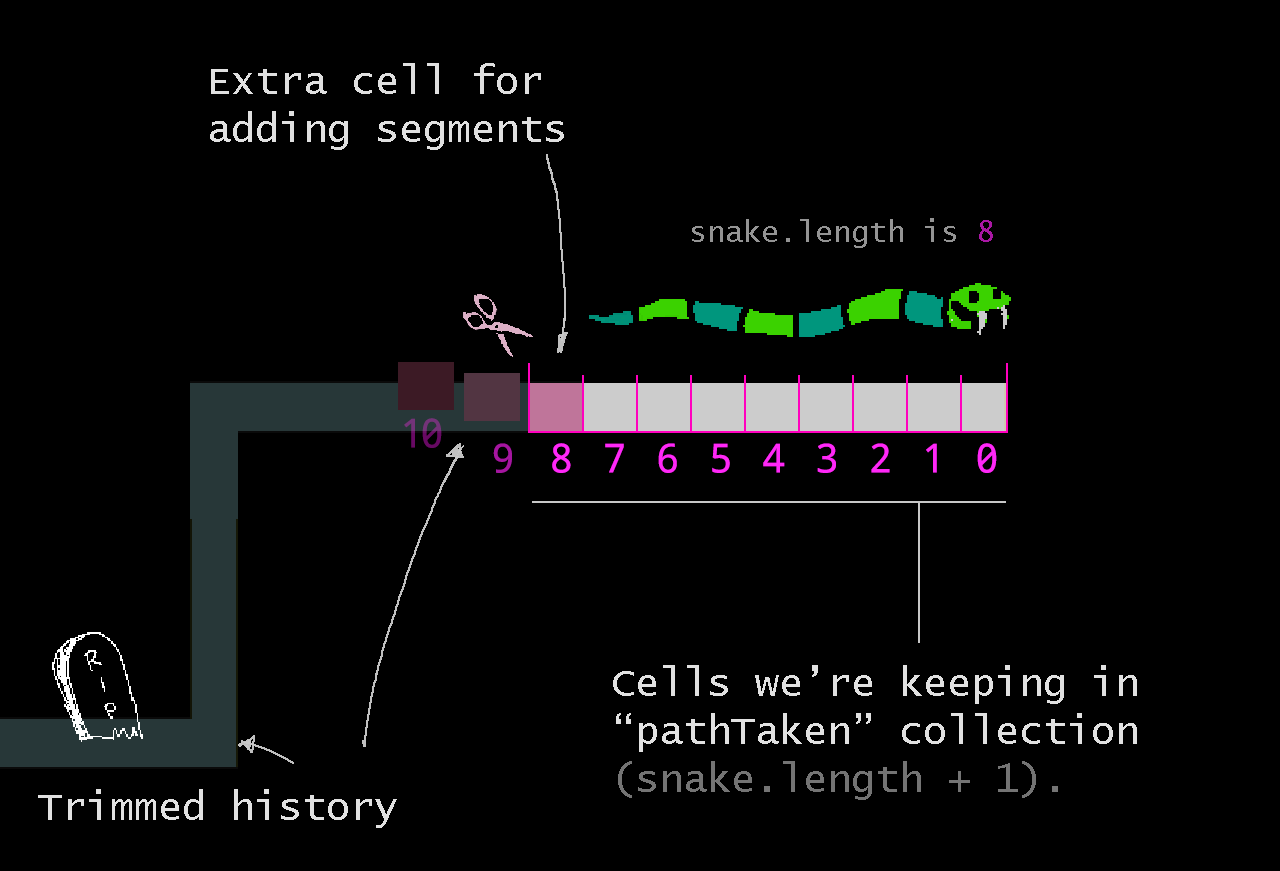
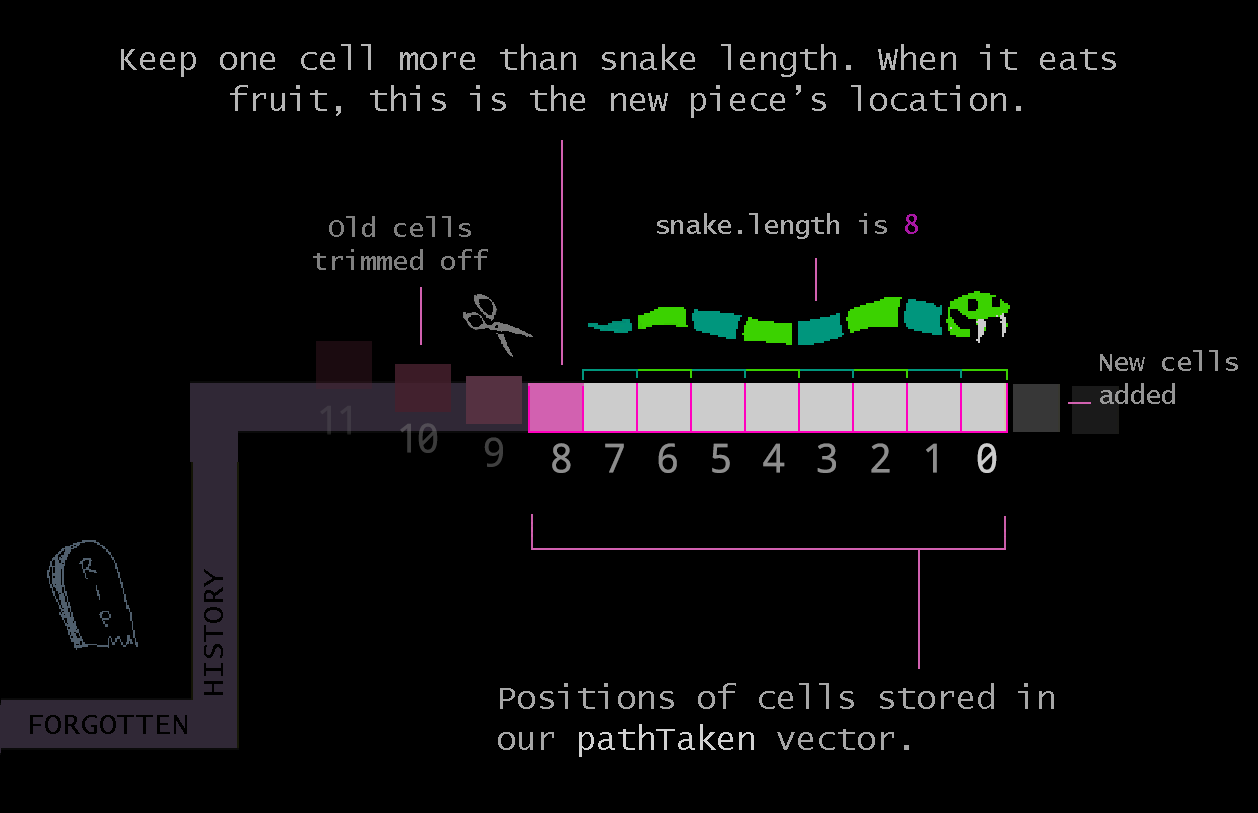
Moving multi part snake, adding a tail

diff --git a/mds/ISE102/week12_notes.html b/mds/ISE102/week12_notes.html
@@ -150,7 +150,7 @@
 
 <p>The snake is a conga line. As the leader dancers forwards, the next in line congas along after them to fill the gap.</p>
 <p><img src="assets/week12/conga_tf2.jpg" alt></p>
-<h3 class="mume-header" id="super-simple-draw-your-history">Super simple: Draw your history</h3>
+<h3 class="mume-header" id="super-simple-leave-a-trail">Super simple: Leave a trail</h3>
 
 <p><img src="assets/week12/light_floor_trail.jpg" alt></p>
 <ul>
@@ -158,51 +158,124 @@
 <p>Remember when we didn&#x2019;t clear the screen? We had one long noodle. Along the entire path taken by the snake head there were white pixels left behind.</p>
 </li>
 <li>
-<p>Just by not being erased, the screen is acting as a record of the path taken.<br>
+<p>Just by not being erased, the screen is a record of the path taken.<br>
 <img src="assets/week11/screen_mess_no_clear.png" alt></p>
 </li>
 <li>
-<p>If we could clear everything except the last few cells of path taken we&#x2019;d have a moving snake.<br>
-<img src="assets/week12/snake_as_recent_history.png" alt></p>
+<p>If we could just clear everything except the last few cells of path taken we&#x2019;d have a moving snake&#x2026;</p>
 </li>
 </ul>
-<h4 class="mume-header" id="clear-and-draw-recent-history">Clear and draw recent history</h4>
+<p><img src="assets/week12/snake_history_simple_no_clear.png" alt></p>
+<p>&#x2026;but figuring that out would be <em>complicated</em>. Let&#x2019;s do it another way.</p>
+<h3 class="mume-header" id="remembering-where-youve-been">Remembering where you&#x2019;ve been</h3>
 
-<p>We could get that same effect if we cleared the screen but had a record of our recent history: we could just draw those pixels again.</p>
+<p>We could get that same effect if we:<br>
+1: <strong>Cleared</strong> the screen<br>
+2: <strong>Remembered the path travelled</strong>, a list of cells visited. A log of the Snake&#x2019;s journey.<br>
+3: Looped through, say, the 8 most recent cells and drew a pixel.</p>
 <ul>
-<li>
-<p>We&#x2019;d need to store the cells we&#x2019;d travelled through using memory.</p>
-</li>
-<li>
-<p>How can you <strong>store a long list</strong> of values in memory using C++? A <strong>vector</strong>.</p>
-</li>
-<li>
-<p>Every time we move, add the cell&#x2019;s location to the vector. That&#x2019;s history.</p>
-<pre data-role="codeBlock" data-info="cpp" class="language-cpp"><span class="token comment">// Declare a collection to hold the cells along the path we&apos;ve travelled.</span>
-<span class="token comment">// = {} initialised it as an empty collection</span>
-vector<span class="token operator">&lt;</span>Cell<span class="token operator">&gt;</span> pathTravelled <span class="token operator">=</span> <span class="token punctuation">{</span><span class="token punctuation">}</span><span class="token punctuation">;</span> 
-
-<span class="token comment">// If we calculate the new head position into a Cell called &quot;cellTo&quot;, add it to the vector</span>
-pathTravelled<span class="token punctuation">.</span><span class="token function">push_back</span><span class="token punctuation">(</span>cellTo<span class="token punctuation">)</span><span class="token punctuation">;</span>
-</pre></li>
+<li>We&#x2019;d need to store the cells we&#x2019;d travelled through using memory.</li>
+<li>We&#x2019;d need to put new cells at the front</li>
+<li>We&#x2019;d need some to start with.</li>
+<li>We&#x2019;d need to delete excess history</li>
 </ul>
-<h4 class="mume-header" id="adding-to-the-beginning-of-a-vector">Adding to the beginning of a vector</h4>
+<p><img src="assets/week12/snake_as_path_travelled.png" alt></p>
+<h4 class="mume-header" id="doing-it-in-code">Doing it in code</h4>
 
 <ul>
-<li>We&#x2019;re dealing with recent history though. It&#x2019;d be nice to push stuff into the start of our vector, and later trim off any excess history.</li>
+<li>How can you <strong>store a long list</strong> of values in memory using C++? A <strong>vector</strong>.</li>
+</ul>
+<pre data-role="codeBlock" data-info="cpp" class="language-cpp">  snake<span class="token punctuation">.</span>length <span class="token operator">=</span> <span class="token number">3</span><span class="token punctuation">;</span>
+  <span class="token comment">// Declare a collection to hold the cells along the path we&apos;ve travelled.</span>
+  <span class="token comment">// = {} initialised it as an empty collection</span>
+  vector<span class="token operator">&lt;</span>Cell<span class="token operator">&gt;</span> pathTravelled <span class="token operator">=</span> <span class="token punctuation">{</span><span class="token punctuation">}</span><span class="token punctuation">;</span> 
+</pre><ul>
+<li>Every time <strong>we move, add the cell&#x2019;s location</strong> to the vector. That&#x2019;s history.</li>
+</ul>
+<pre data-role="codeBlock" data-info="cpp" class="language-cpp">  <span class="token comment">// INITIALISE SNAKE</span>
+  <span class="token comment">// add some cells representing the first snakebits</span>
+  <span class="token keyword">for</span> <span class="token punctuation">(</span><span class="token keyword">int</span> i <span class="token operator">=</span> <span class="token number">0</span><span class="token punctuation">;</span> i <span class="token operator">&lt;</span> snake<span class="token punctuation">.</span>length <span class="token operator">+</span> <span class="token number">1</span><span class="token punctuation">;</span> i<span class="token operator">++</span><span class="token punctuation">)</span>
+  <span class="token punctuation">{</span>
+    <span class="token comment">// add a cell for each bit of our starting length.</span>
+    pathTravelled<span class="token punctuation">.</span><span class="token function">push</span><span class="token punctuation">(</span> <span class="token punctuation">{</span>startingX<span class="token punctuation">,</span> startingY<span class="token punctuation">}</span><span class="token punctuation">)</span><span class="token punctuation">;</span>
+  <span class="token punctuation">}</span>
+  
+</pre><h4 class="mume-header" id="moving-the-snake-the-new-way">Moving the snake the new way</h4>
+
+<pre data-role="codeBlock" data-info="cpp" class="language-cpp">  <span class="token comment">// move the snake</span>
+  <span class="token comment">// NEXT SPOT IS THIS SPOT PLUS DIRECTION THING</span>
+  Cell cellTo <span class="token operator">=</span> <span class="token punctuation">(</span>next cell calculation<span class="token punctuation">)</span>
+  <span class="token comment">// instead of changing headCell.cell.x we create a new cell </span>
+  <span class="token comment">// with the new head location, place it on pathTravelled.</span>
+  pathTravelled<span class="token punctuation">.</span><span class="token function">push_back</span><span class="token punctuation">(</span>cellTo<span class="token punctuation">)</span><span class="token punctuation">;</span>
+</pre><h4 class="mume-header" id="adding-to-the-beginning-of-a-vector">Adding to the beginning of a vector</h4>
+
+<ul>
+<li>We&#x2019;re dealing with recent history though. It&#x2019;d be nice to push stuff into the start of our vector, and later trim off any excess history. This keeps our snake head at the front of the collection&#x2026; index <code>[0]</code>.</li>
 </ul>
 <p>You can insert things into a vector at any position.  C++ provides handy references to certain places, like <code>myVector.begin()</code>. More documentation // HERE</p>
 <pre data-role="codeBlock" data-info="cpp" class="language-cpp">  <span class="token comment">// Insert cellTo at the beginning of the vector</span>
   pathTravelled<span class="token punctuation">.</span><span class="token function">insert</span><span class="token punctuation">(</span>pathTravelled<span class="token punctuation">.</span><span class="token function">begin</span><span class="token punctuation">(</span><span class="token punctuation">)</span><span class="token punctuation">,</span> cellTo<span class="token punctuation">)</span><span class="token punctuation">;</span>
+
 </pre><p>If you <strong>start at 5,5</strong> and move right for a few frames, the vector will look like so:</p>
 <pre data-role="codeBlock" data-info class="language-"><code>0: 8,5  // current cell
 1: 7,5
 2: 6,5
 3: 5,5  // starting cell
-</code></pre><h4 class="mume-header" id="trim-what-we-dont-need">Trim what we don&#x2019;t need</h4>
+</code></pre><h3 class="mume-header" id="drawing-the-snake">Drawing the Snake</h3>
+
+<p><img src="assets/week12/snake_head_is_0.png" alt></p>
+<p>Now that the first thing in the vector is always the spot the head has travelled to, drawing a pixel at <code>pathTravelled[0]</code> is the same as drawing the head.</p>
+<p>Since we know the snake length, we can draw pixels in that many of the recently travelled cells to get our body.</p>
+<pre data-role="codeBlock" data-info="cpp" class="language-cpp"><span class="token keyword">for</span> <span class="token punctuation">(</span><span class="token keyword">int</span> i <span class="token operator">=</span> <span class="token number">0</span><span class="token punctuation">;</span> i <span class="token operator">&lt;</span> snake<span class="token punctuation">.</span>length <span class="token operator">+</span> <span class="token number">1</span><span class="token punctuation">;</span> i<span class="token operator">++</span><span class="token punctuation">)</span>
+<span class="token punctuation">{</span>
+  <span class="token comment">// add a cell for each bit of our starting length.</span>
+  <span class="token function">DrawPixel</span><span class="token punctuation">(</span>pathTravelled<span class="token punctuation">[</span>i<span class="token punctuation">]</span><span class="token punctuation">.</span>x<span class="token punctuation">,</span> pathTravelled<span class="token punctuation">[</span>i<span class="token punctuation">]</span><span class="token punctuation">.</span>y<span class="token punctuation">,</span> color<span class="token punctuation">)</span><span class="token punctuation">;</span>
+
+  <span class="token comment">// We&apos;re in the Snake class so we don&apos;t need `snake.color`</span>
+<span class="token punctuation">}</span>
+</pre><h4 class="mume-header" id="trim-what-we-dont-need">Trim what we don&#x2019;t need</h4>
 
 <p><img src="assets/week12/snake_as_path_travelled.png" alt></p>
+<p>Rather than keep a journal of every cell we&#x2019;ve ever visited, it&#x2019;d be nice to trim off the old ones like in the diagram.</p>
+<ul>
+<li>We can just resize the vector to the snake&#x2019;s length.</li>
+</ul>
+<pre data-role="codeBlock" data-info="cpp" class="language-cpp"><span class="token comment">// after moving to a new cell and adding it to the front of pathTravelled,</span>
+pathTravelled<span class="token punctuation">.</span><span class="token function">resize</span><span class="token punctuation">(</span>length<span class="token punctuation">)</span><span class="token punctuation">;</span>
+</pre><h3 class="mume-header" id="eating-a-fruit">Eating a fruit.</h3>
 
+<p>We&#x2019;ve shortchanged ourselves. How?</p>
+<p>IWhen we get around to <strong>eating a fruit</strong> we&#x2019;ll need to know <strong>where to put the new tail</strong>. With only enough travel history for our existing pieces we won&#x2019;t know where to add it.</p>
+<ul>
+<li>Keeping a spare cell (or more) of history after each move gives us flexibility to add to the tail.</li>
+</ul>
+<pre data-role="codeBlock" data-info="cpp" class="language-cpp"><span class="token comment">// after moving to a new cell and adding it to the front of pathTravelled,</span>
+pathTravelled<span class="token punctuation">.</span><span class="token function">resize</span><span class="token punctuation">(</span>length<span class="token operator">+</span><span class="token number">1</span><span class="token punctuation">)</span><span class="token punctuation">;</span>
+</pre><h4 class="mume-header" id="adding-the-tail">Adding the tail</h4>
+
+<p>Ideas??</p>
+<h2 class="mume-header" id="adding-a-startendpause-screen">Adding a start/end/pause screen</h2>
+
+<p>It&#x2019;s just a screen where we&#x2019;re not listening for arrows/wasd and not simulating our snake.</p>
+<p>It&#x2019;s our Snake game loop under different conditions so&#x2026; use a conditional! <code>if</code> or <code>switch</code>.</p>
+<pre data-role="codeBlock" data-info class="language-"><code>if screen is START_GAME 
+  show &quot;press key to start&quot;
+  if key pressed change screen to PLAYING
+else if 
+  screen is PLAYING
+  snake stuff
+  if dead 
+    change screen to GAME_OVER
+else if
+  screen is GAME_OVER
+  make cause of death visible
+  say something nice/mean/whatever
+  show &quot;press key to start over&quot;
+  if key pressed change screen to PLAYING
+end if
+
+</code></pre>
       </div>
       
       

diff --git a/mds/ISE102/week12_notes.md b/mds/ISE102/week12_notes.md
@@ -21,42 +21,82 @@ The snake is a conga line. As the leader dancers forwards, the next in line cong
 ![](assets/week12/conga_tf2.jpg)
 
 
-### Super simple: Draw your history
+### Super simple: Leave a trail
 
 ![](assets/week12/light_floor_trail.jpg)
 
   * Remember when we didn't clear the screen? We had one long noodle. Along the entire path taken by the snake head there were white pixels left behind.
-  * Just by not being erased, the screen is acting as a record of the path taken.
+  * Just by not being erased, the screen is a record of the path taken.
   ![](assets/week11/screen_mess_no_clear.png)
   
-  * If we could clear everything except the last few cells of path taken we'd have a moving snake. 
-  ![](assets/week12/snake_as_recent_history.png)
+  * If we could just clear everything except the last few cells of path taken we'd have a moving snake..
   
-#### Clear and draw recent history
-We could get that same effect if we cleared the screen but had a record of our recent history: we could just draw those pixels again.
-  - We'd need to store the cells we'd travelled through using memory.
-  - How can you **store a long list** of values in memory using C++? A **vector**. 
-  - Every time we move, add the cell's location to the vector. That's history.
+  ![](assets/week12/snake_history_simple_no_clear.png)
 
-    ```cpp
+  ..but figuring that out would be _complicated_. Let's do it another way.
+  
+### Remembering where you've been
+
+We could get that same effect if we:
+1: **Cleared** the screen
+2: **Remembered the path travelled**, a list of cells visited. A log of the Snake's journey.
+3: Looped through, say, the 8 most recent cells and drew a pixel.
+
+  - We'd need to store the cells we'd travelled through using memory.
+  - We'd need to put new cells at the front
+  - We'd need some to start with.
+  - We'd need to delete excess history
+
+![](assets/week12/snake_as_path_travelled.png)
+
+
+#### Doing it in code
+
+
+ - How can you **store a long list** of values in memory using C++? A **vector**. 
+
+  ```cpp
+    snake.length = 3;
     // Declare a collection to hold the cells along the path we've travelled.
     // = {} initialised it as an empty collection
     vector<Cell> pathTravelled = {}; 
+  ```
+  - Every time **we move, add the cell's location** to the vector. That's history.
 
-    // If we calculate the new head position into a Cell called "cellTo", add it to the vector
-    pathTravelled.push_back(cellTo);
-    ```
+  ```cpp
+    // INITIALISE SNAKE
+    // add some cells representing the first snakebits
+    for (int i = 0; i < snake.length + 1; i++)
+    {
+      // add a cell for each bit of our starting length.
+      pathTravelled.push( {startingX, startingY});
+    }
+    
+  ```
+
+#### Moving the snake the new way
+
+```cpp
+  // move the snake
+  // NEXT SPOT IS THIS SPOT PLUS DIRECTION THING
+  Cell cellTo = (next cell calculation)
+  // instead of changing headCell.cell.x we create a new cell 
+  // with the new head location, place it on pathTravelled.
+  pathTravelled.push_back(cellTo);
+```
 
 #### Adding to the beginning of a vector
 
-- We're dealing with recent history though. It'd be nice to push stuff into the start of our vector, and later trim off any excess history.
+- We're dealing with recent history though. It'd be nice to push stuff into the start of our vector, and later trim off any excess history. This keeps our snake head at the front of the collection.. index `[0]`.
 
 You can insert things into a vector at any position.  C++ provides handy references to certain places, like `myVector.begin()`. More documentation // HERE
 
 ```cpp
   // Insert cellTo at the beginning of the vector
   pathTravelled.insert(pathTravelled.begin(), cellTo);
+
 ```
+
 If you **start at 5,5** and move right for a few frames, the vector will look like so:
 ```
 0: 8,5  // current cell
@@ -64,6 +104,76 @@ If you **start at 5,5** and move right for a few frames, the vector will look li
 2: 6,5
 3: 5,5  // starting cell
 ```
+
+### Drawing the Snake
+
+![](assets/week12/snake_head_is_0.png)
+
+Now that the first thing in the vector is always the spot the head has travelled to, drawing a pixel at `pathTravelled[0]` is the same as drawing the head.
+
+Since we know the snake length, we can draw pixels in that many of the recently travelled cells to get our body.
+
+```cpp
+for (int i = 0; i < snake.length + 1; i++)
+{
+  // add a cell for each bit of our starting length.
+  DrawPixel(pathTravelled[i].x, pathTravelled[i].y, color);
+
+  // We're in the Snake class so we don't need `snake.color`
+}
+```
+
 #### Trim what we don't need
 
 ![](assets/week12/snake_as_path_travelled.png)
+
+Rather than keep a journal of every cell we've ever visited, it'd be nice to trim off the old ones like in the diagram.
+
+* We can just resize the vector to the snake's length. 
+
+```cpp
+// after moving to a new cell and adding it to the front of pathTravelled,
+pathTravelled.resize(length);
+```
+
+### Eating a fruit.
+
+We've shortchanged ourselves. How?
+
+IWhen we get around to **eating a fruit** we'll need to know **where to put the new tail**. With only enough travel history for our existing pieces we won't know where to add it.
+
+* Keeping a spare cell (or more) of history after each move gives us flexibility to add to the tail.
+
+```cpp
+// after moving to a new cell and adding it to the front of pathTravelled,
+pathTravelled.resize(length+1);
+```
+
+#### Adding the tail
+
+Ideas??
+
+## Adding a start/end/pause screen
+
+It's just a screen where we're not listening for arrows/wasd and not simulating our snake.
+
+It's our Snake game loop under different conditions so.. use a conditional! `if` or `switch`.
+
+```
+if screen is START_GAME 
+  show "press key to start"
+  if key pressed change screen to PLAYING
+else if 
+  screen is PLAYING
+  snake stuff
+  if dead 
+    change screen to GAME_OVER
+else if
+  screen is GAME_OVER
+  make cause of death visible
+  say something nice/mean/whatever
+  show "press key to start over"
+  if key pressed change screen to PLAYING
+end if
+
+```
